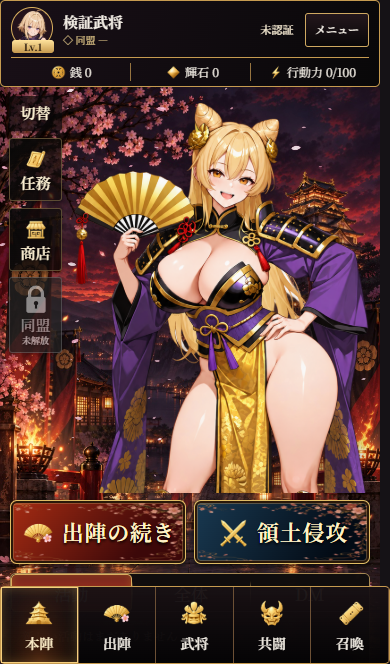
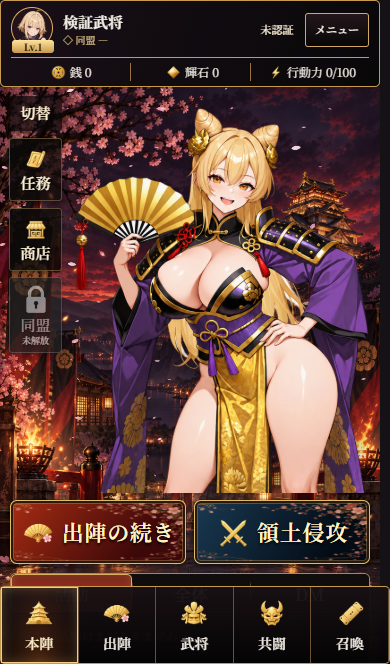
fix: clip cowboy art to source crop across wide poses

Changed region(s): [[0.1846, 0.1506, 0.9538, 0.753], [0.4, 0.7229, 0.4308, 0.753]]

diff --git a/src/app/components/redesign/visual-bench/CowboyDisplay.tsx b/src/app/components/redesign/visual-bench/CowboyDisplay.tsx
@@ -1,12 +1,16 @@
+'use client';
+import {useId} from 'react';
 import art from '@/theme/local-characters.json';
 import crops from '@/theme/character-cowboy-crops.json';
 import './CowboyDisplay.css';
 /** Shared head-to-thigh framing; measured source bounds are independent of text. */
 export default function CowboyDisplay({characterId,name}:{characterId:string;name:string}) {
+  const clipId=useId();
   const source=art.find(row=>row.id===characterId)?.full;
   const crop=crops.find(row=>row.id===characterId);
   if(!source||!crop)return null;
-  return <svg className="g4-cowboy" viewBox={`${crop.x} ${crop.y} ${crop.width} ${crop.height}`} preserveAspectRatio="xMidYMin meet" role="img" aria-label={name} data-character={characterId}>
-    <image href={source} width={crop.naturalWidth} height={crop.naturalHeight}/>
+  return <svg className="g4-cowboy" viewBox={`${crop.x} ${crop.y} ${crop.width} ${crop.height}`} preserveAspectRatio="xMidYMax meet" role="img" aria-label={name} data-character={characterId}>
+    <defs><clipPath id={clipId}><rect x={crop.x} y={crop.y} width={crop.width} height={crop.height}/></clipPath></defs>
+    <image href={source} width={crop.naturalWidth} height={crop.naturalHeight} clipPath={`url(#${clipId})`}/>
   </svg>;
 }

diff --git a/docs/verification/device-debug/b07/REVIEW.md b/docs/verification/device-debug/b07/REVIEW.md
@@ -5,7 +5,7 @@
 
 ## 確定修正と見本
 
-- DBG-036/037：豊臣の案内場面・本陣武将を頭〜太ももへ。共通CowboyDisplay、60素材の透明余白測定値、素材別切り取り位置を使用。元画像は変更しない。ワールドイントロの複数人物配置は既存のまま。
+- DBG-036/037：豊臣の案内場面・本陣武将を頭〜太ももへ。共通CowboyDisplay、60素材の透明余白測定値、素材別切り取り位置を使用。元画像は変更しない。SVGの透明余白にも人物が描画されないよう素材ごとのclipPathを適用し、下端をCTAの上へ揃える。ワールドイントロの複数人物配置は既存のまま。
 - 豊臣の表示高は文字送りと独立。112px固定文字領域を維持。本陣は左の操作列と上端装飾の余白を確保し、下の主要CTAへ重ねない。
 - DBG-038/039：初期候補は「夕桜の城下街」だけ。旧城門ID/bg_defaultは表示時に城下街へ解決。その他の有効な背景選択を保持。保存データ一括書換え・背景ファイル削除は行わない。
 - 一覧は解放済み→未解放。各群内は初期→クエスト進捗→SSR、カテゴリ内は元のマスター順。
